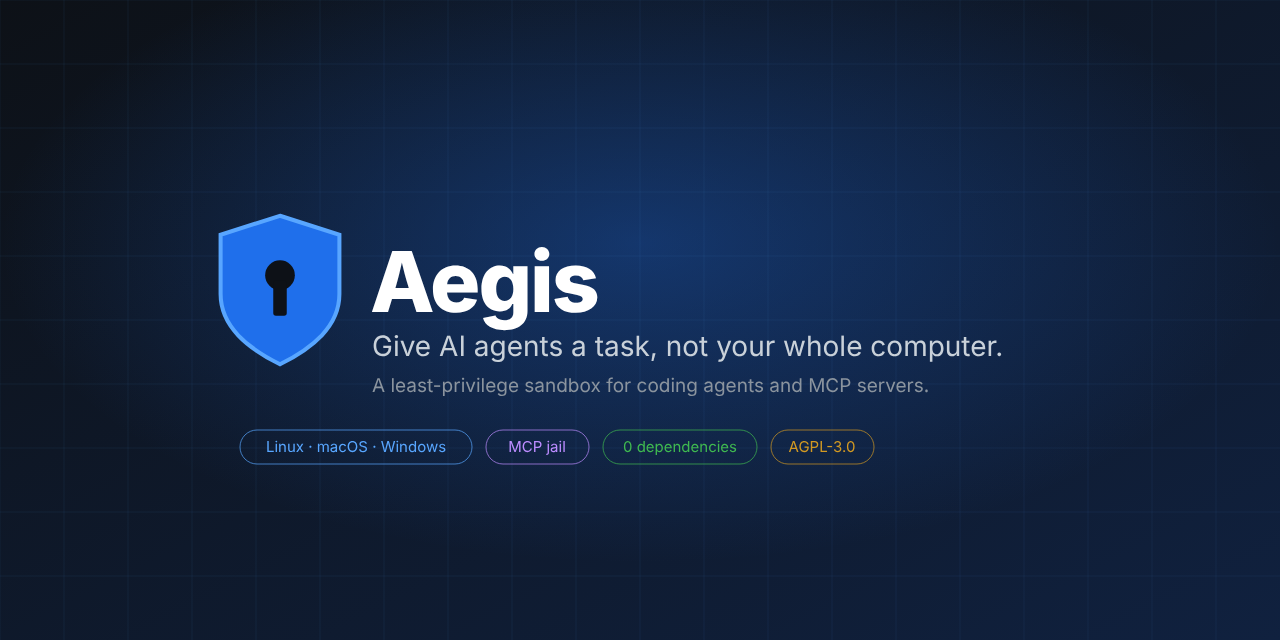
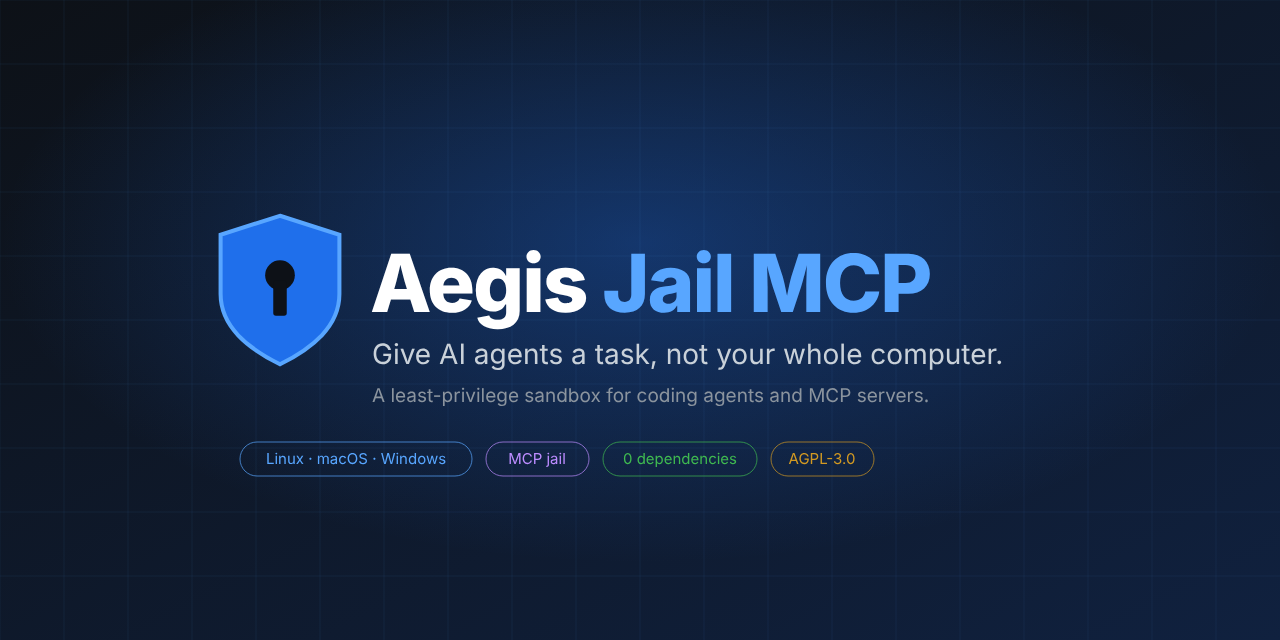
Rename the product to Aegis Jail MCP
- display name in README (EN/PL), banner, social preview, architecture and
  MCP jail diagrams, docs titles, trademark/NOTICE, plugin and package
  metadata; short name 'Aegis' and the 'aegis' command are unchanged
- distribution name aegis-jail-mcp (pip), alias command aegis-jail-mcp
- banner: 'Aegis' in white, 'Jail MCP' in accent blue, more spacing
- doctor / --version / MCP serverInfo show the new name

Claude-Session: https://claude.ai/code/session_01919NHYAr53n4tJGRWSJUZz

Changed region(s): [[0.2812, 0.375, 0.7812, 0.625], [0.1875, 0.6875, 0.6875, 0.75]]

diff --git a/scripts/make_images.py b/scripts/make_images.py
@@ -129,11 +129,11 @@ def banner(width: int = 1280, height: int = 400, social: bool = False) -> str:
     chip_svg, x = [], cx - 400
     for label, col in chips:
         wlab = len(label) * 8.6 + 34
-        chip_svg.append(f'<rect x="{x:.0f}" y="{height // 2 + 110}" width="{wlab:.0f}" height="34" rx="17" fill="none" '
-                        f'stroke="{col}" stroke-opacity=".7"/><text x="{x + wlab / 2:.0f}" y="{height // 2 + 132}" fill="{col}" '
+        chip_svg.append(f'<rect x="{x:.0f}" y="{height // 2 + 122}" width="{wlab:.0f}" height="34" rx="17" fill="none" '
+                        f'stroke="{col}" stroke-opacity=".7"/><text x="{x + wlab / 2:.0f}" y="{height // 2 + 144}" fill="{col}" '
                         f'font-family="{SANS}" font-size="15" text-anchor="middle">{esc(label)}</text>')
         x += wlab + 14
-    return f'''<svg xmlns="http://www.w3.org/2000/svg" width="{width}" height="{height}" viewBox="0 0 {width} {height}" role="img" aria-label="Aegis - give AI agents a task, not your whole computer">
+    return f'''<svg xmlns="http://www.w3.org/2000/svg" width="{width}" height="{height}" viewBox="0 0 {width} {height}" role="img" aria-label="Aegis Jail MCP - give AI agents a task, not your whole computer">
 <defs>
 <linearGradient id="bg" x1="0" y1="0" x2="1" y2="1"><stop offset="0" stop-color="#0d1117"/><stop offset="1" stop-color="#10213f"/></linearGradient>
 <radialGradient id="glow" cx=".5" cy=".38" r=".5"><stop offset="0" stop-color="#1f6feb" stop-opacity=".35"/><stop offset="1" stop-color="#1f6feb" stop-opacity="0"/></radialGradient>
@@ -141,9 +141,9 @@ def banner(width: int = 1280, height: int = 400, social: bool = False) -> str:
 <rect width="{width}" height="{height}" fill="url(#bg)"/><rect width="{width}" height="{height}" fill="url(#glow)"/>
 <g stroke="#58a6ff" stroke-opacity=".07">{"".join(f'<line x1="{i}" y1="0" x2="{i}" y2="{height}"/>' for i in range(0, width, 64))}{"".join(f'<line x1="0" y1="{j}" x2="{width}" y2="{j}"/>' for j in range(0, height, 64))}</g>
 <g transform="translate({cx - 360},{height // 2 - 34}) scale(1.35)">{SHIELD}</g>
-<text x="{cx - 270}" y="{height // 2 - 8}" fill="#ffffff" font-family="{SANS}" font-size="84" font-weight="800" letter-spacing="-2">Aegis</text>
-<text x="{cx - 268}" y="{height // 2 + 36}" fill="#c9d1d9" font-family="{SANS}" font-size="28">Give AI agents a task, not your whole computer.</text>
-<text x="{cx - 268}" y="{height // 2 + 72}" fill="{DIM}" font-family="{SANS}" font-size="19">A least-privilege sandbox for coding agents and MCP servers.</text>
+<text x="{cx - 270}" y="{height // 2 - 8}" fill="#ffffff" font-family="{SANS}" font-size="80" font-weight="800" letter-spacing="-2">Aegis <tspan fill="#58a6ff">Jail MCP</tspan></text>
+<text x="{cx - 268}" y="{height // 2 + 44}" fill="#c9d1d9" font-family="{SANS}" font-size="28">Give AI agents a task, not your whole computer.</text>
+<text x="{cx - 268}" y="{height // 2 + 82}" fill="{DIM}" font-family="{SANS}" font-size="19">A least-privilege sandbox for coding agents and MCP servers.</text>
 {"".join(chip_svg)}
 </svg>'''
 
@@ -184,7 +184,7 @@ def architecture() -> str:
           txt(155, 340, "npm install · pytest", 14, DIM, "middle"),
           txt(155, 388, "can be steered by a README,", 13, RED, "middle"), txt(155, 406, "an issue or a web page", 13, RED, "middle")]
     # middle: aegis
-    s += [box(330, 70, 440, 370, "#0e2147", BLUE, 16), txt(550, 104, "AEGIS", 16, BLUE, "middle", "800")]
+    s += [box(330, 70, 440, 370, "#0e2147", BLUE, 16), txt(550, 104, "AEGIS JAIL MCP", 16, BLUE, "middle", "800")]
     layers = [("OS sandbox", "bubblewrap · Seatbelt · AppContainer", BLUE),
               ("Syscall filter", "seccomp blocklist (Linux)", BLUE),
               ("Working copy", "agent edits a copy, you review the diff", GREEN),
@@ -249,7 +249,7 @@ def mcp_jail() -> str:
           txt(125, 180, "Claude Code", 14, DIM, "middle"), txt(125, 202, "Claude Desktop", 14, DIM, "middle"),
           txt(125, 224, "Cursor · VS Code", 14, DIM, "middle"), txt(125, 262, "your model sees only", 13, TEXT, "middle"),
           txt(125, 282, "filtered, clean tools", 13, TEXT, "middle")]
-    s += [box(300, 80, 500, 290, "#1d1535", PURPLE, 16), txt(550, 110, "AEGIS MCP JAIL", 15, PURPLE, "middle", "800")]
+    s += [box(300, 80, 500, 290, "#1d1535", PURPLE, 16), txt(550, 110, "AEGIS JAIL MCP", 15, PURPLE, "middle", "800")]
     rules = [("Tool firewall", "--allow-tools / --deny-tools globs"),
              ("Rug-pull protection", "definitions pinned; a change hides it"),
              ("Poisoning filter", "hidden instructions & invisible Unicode"),

diff --git a/aegis_jail/cli.py b/aegis_jail/cli.py
@@ -100,7 +100,7 @@ def cmd_init(args) -> int:
 
 def cmd_doctor(args) -> int:
     from aegis_jail.sandbox import SandboxUnavailable, get_backend
-    print(f"Aegis {__version__} on {sys.platform}, Python {sys.version.split()[0]}")
+    print(f"Aegis Jail MCP {__version__} on {sys.platform}, Python {sys.version.split()[0]}")
     try:
         b = get_backend()
         from aegis_jail import seccomp
@@ -497,7 +497,7 @@ def cmd_demo(args) -> int:
 
 def build_parser() -> argparse.ArgumentParser:
     ap = argparse.ArgumentParser(prog="aegis", description="Give an AI agent a task. Keep control of what it can access.")
-    ap.add_argument("--version", action="version", version=f"aegis {__version__}")
+    ap.add_argument("--version", action="version", version=f"Aegis Jail MCP {__version__}")
     sub = ap.add_subparsers(dest="cmd", required=True)
 
     def common(p):

diff --git a/aegis_jail/mcpserver.py b/aegis_jail/mcpserver.py
@@ -325,7 +325,7 @@ def handle(msg: dict) -> dict | None:
             result: dict = {
                 "protocolVersion": asked if asked in PROTOCOL_VERSIONS else PROTOCOL_VERSIONS[0],
                 "capabilities": {"tools": {"listChanged": False}},
-                "serverInfo": {"name": "aegis", "title": "Aegis sandbox", "version": __version__},
+                "serverInfo": {"name": "aegis", "title": "Aegis Jail MCP", "version": __version__},
                 "instructions": ("Use aegis_run to execute shell commands (tests, builds, untrusted scripts) in a "
                                  "sandbox that hides the user's home directory and credentials and blocks network "
                                  "access unless allowed. Changes land in a working copy; show aegis_diff to the "

diff --git a/README.pl.md b/README.pl.md
@@ -1,5 +1,5 @@
 <p align="center">
-  <img src="docs/images/banner.svg" alt="Aegis: daj agentom AI zadanie, a nie cały komputer" width="100%">
+  <img src="docs/images/banner.svg" alt="Aegis Jail MCP: daj agentom AI zadanie, a nie cały komputer" width="100%">
 </p>
 
 <p align="center">
@@ -16,7 +16,7 @@
 
 <p align="center">
   <a href="README.md">English</a> ·
-  <a href="#czym-jest-aegis">Czym jest</a> ·
+  <a href="#czym-jest-aegis-jail-mcp">Czym jest</a> ·
   <a href="#zobacz-to-w-akcji">Demo</a> ·
   <a href="#gdzie-można-go-używać">Gdzie używać</a> ·
   <a href="#instalacja">Instalacja</a> ·
@@ -27,9 +27,9 @@
 
 ---
 
-## Czym jest Aegis?
+## Czym jest Aegis Jail MCP?
 
-**Aegis to sandbox dla agentów AI.** Uruchamia agentów programistycznych (Claude Code, Codex, Gemini CLI, Aider), serwery MCP i niezaufane skrypty wewnątrz piaskownicy systemu operacyjnego. Agent dostaje **kopię Twojego projektu i nic więcej**:
+**Aegis Jail MCP to sandbox dla agentów AI.** (Krótka nazwa: *Aegis*, komenda: `aegis`.) Uruchamia agentów programistycznych (Claude Code, Codex, Gemini CLI, Aider), serwery MCP i niezaufane skrypty wewnątrz piaskownicy systemu operacyjnego. Agent dostaje **kopię Twojego projektu i nic więcej**:
 
 - bez katalogu domowego, bez `~/.ssh` i `~/.aws`, bez kluczy z pliku `.env` w projekcie;
 - bez tokenów ze zmiennych środowiskowych;
@@ -372,7 +372,7 @@ Aegis chroni sesje, **które sam uruchamia**. Nie zamknie w piaskownicy edytora,
 <details>
 <summary><b>Dlaczego AGPL i czy mogę używać w pracy?</b></summary>
 
-Tak, możesz używać Aegis w pracy za darmo. AGPL wymaga tylko, żebyś, jeśli go *zmodyfikujesz* i udostępnisz innym (także jako usługę), podzielił się zmianami na tej samej licencji. Nazwa „Aegis" i logo są znakami towarowymi: forkuj swobodnie, ale zmień nazwę swojej dystrybucji. Zobacz [TRADEMARK.md](TRADEMARK.md) i [docs/PROTECTING-THE-WORK.md](docs/PROTECTING-THE-WORK.md).
+Tak, możesz używać Aegis w pracy za darmo. AGPL wymaga tylko, żebyś, jeśli go *zmodyfikujesz* i udostępnisz innym (także jako usługę), podzielił się zmianami na tej samej licencji. Nazwy „Aegis Jail MCP" i „Aegis" oraz logo są znakami towarowymi: forkuj swobodnie, ale zmień nazwę swojej dystrybucji. Zobacz [TRADEMARK.md](TRADEMARK.md) i [docs/PROTECTING-THE-WORK.md](docs/PROTECTING-THE-WORK.md).
 </details>
 
 ## Uczciwe ograniczenia
@@ -407,4 +407,4 @@ Jeśli Aegis uchronił Cię przed „zezwól na wszystko", gwiazdka pomaga innym
 
 ## Licencja
 
-[AGPL-3.0-or-later](LICENSE). „Aegis" i logo tarczy to znaki towarowe, zobacz [TRADEMARK.md](TRADEMARK.md). Koncepcja produktu: [docs/KONCEPCJA.md](docs/KONCEPCJA.md).
+[AGPL-3.0-or-later](LICENSE). „Aegis Jail MCP", „Aegis" i logo tarczy to znaki towarowe, zobacz [TRADEMARK.md](TRADEMARK.md). Koncepcja produktu: [docs/KONCEPCJA.md](docs/KONCEPCJA.md).

diff --git a/README.md b/README.md
@@ -1,5 +1,5 @@
 <p align="center">
-  <img src="docs/images/banner.svg" alt="Aegis: give AI agents a task, not your whole computer" width="100%">
+  <img src="docs/images/banner.svg" alt="Aegis Jail MCP: give AI agents a task, not your whole computer" width="100%">
 </p>
 
 <p align="center">
@@ -15,7 +15,7 @@
 </p>
 
 <p align="center">
-  <a href="#what-is-aegis">What it is</a> ·
+  <a href="#what-is-aegis-jail-mcp">What it is</a> ·
   <a href="#see-it-in-action">Demo</a> ·
   <a href="#where-can-you-use-it">Where to use it</a> ·
   <a href="#install">Install</a> ·
@@ -27,9 +27,9 @@
 
 ---
 
-## What is Aegis?
+## What is Aegis Jail MCP?
 
-**Aegis is a sandbox for AI agents.** It runs coding agents (Claude Code, Codex, Gemini CLI, Aider), MCP servers and untrusted scripts inside an operating-system sandbox, so that the agent gets **a copy of your project and nothing else**:
+**Aegis Jail MCP is a sandbox for AI agents.** (Short name: *Aegis*. The command is `aegis`.) It runs coding agents (Claude Code, Codex, Gemini CLI, Aider), MCP servers and untrusted scripts inside an operating-system sandbox, so that the agent gets **a copy of your project and nothing else**:
 
 - no home directory, no `~/.ssh`, no `~/.aws`, no keys in your project's `.env`;
 - no tokens from your environment variables;
@@ -407,7 +407,7 @@ No sandbox is, and Aegis says so. It reduces what a hijacked agent can reach and
 <details>
 <summary><b>Why AGPL, and can I use it at work?</b></summary>
 
-Yes, you can use Aegis at work for free. The AGPL asks that if you *modify* it and offer it to others (including as a hosted service), you share your changes under the same license. The "Aegis" name and logo are trademarks: fork freely, but rename your distribution. See [TRADEMARK.md](TRADEMARK.md) and [docs/PROTECTING-THE-WORK.md](docs/PROTECTING-THE-WORK.md).
+Yes, you can use Aegis at work for free. The AGPL asks that if you *modify* it and offer it to others (including as a hosted service), you share your changes under the same license. The "Aegis Jail MCP" and "Aegis" names and the logo are trademarks: fork freely, but rename your distribution. See [TRADEMARK.md](TRADEMARK.md) and [docs/PROTECTING-THE-WORK.md](docs/PROTECTING-THE-WORK.md).
 </details>
 
 ## Honest limits
@@ -443,4 +443,4 @@ If Aegis saved you from an "allow all", a star helps other people find it.
 
 ## License
 
-[AGPL-3.0-or-later](LICENSE). "Aegis" and the shield logo are trademarks, see [TRADEMARK.md](TRADEMARK.md). Product concept (Polish): [docs/KONCEPCJA.md](docs/KONCEPCJA.md).
+[AGPL-3.0-or-later](LICENSE). "Aegis Jail MCP", "Aegis" and the shield logo are trademarks, see [TRADEMARK.md](TRADEMARK.md). Product concept (Polish): [docs/KONCEPCJA.md](docs/KONCEPCJA.md).

diff --git a/TRADEMARK.md b/TRADEMARK.md
@@ -1,6 +1,6 @@
-# Aegis trademark policy
+# Aegis Jail MCP trademark policy
 
-The **Aegis** name and the shield logo (`.claude-plugin/icon.png`) are trademarks
+The **Aegis Jail MCP** name (and its short form, **Aegis**) and the shield logo (`.claude-plugin/icon.png`) are trademarks
 of the project owner (IwanskyDD). The AGPL-3.0 license covers the *code*; it does
 not license the *name* or the *logo*. This is normal for open-source projects
 (Python, Firefox, Rust and many others do the same) and it is what lets us keep

diff --git a/docs/THREAT_MODEL.md b/docs/THREAT_MODEL.md
@@ -1,4 +1,4 @@
-# Aegis threat model
+# Aegis Jail MCP threat model
 
 Who we defend against, what they try, and what stops them. Every row marked
 **tested** has a regression test in `tests/` that runs against the real OS

diff --git a/CONTRIBUTING.md b/CONTRIBUTING.md
@@ -1,4 +1,4 @@
-# Contributing to Aegis
+# Contributing to Aegis Jail MCP
 
 Thanks for helping make AI agents safer to use!
 

diff --git a/docs/KONCEPCJA.md b/docs/KONCEPCJA.md
@@ -1,4 +1,4 @@
-# Aegis
+# Aegis Jail MCP
 
 > Daj AI zadanie. Zachowaj kontrolę nad tym, do czego ma dostęp.
 
